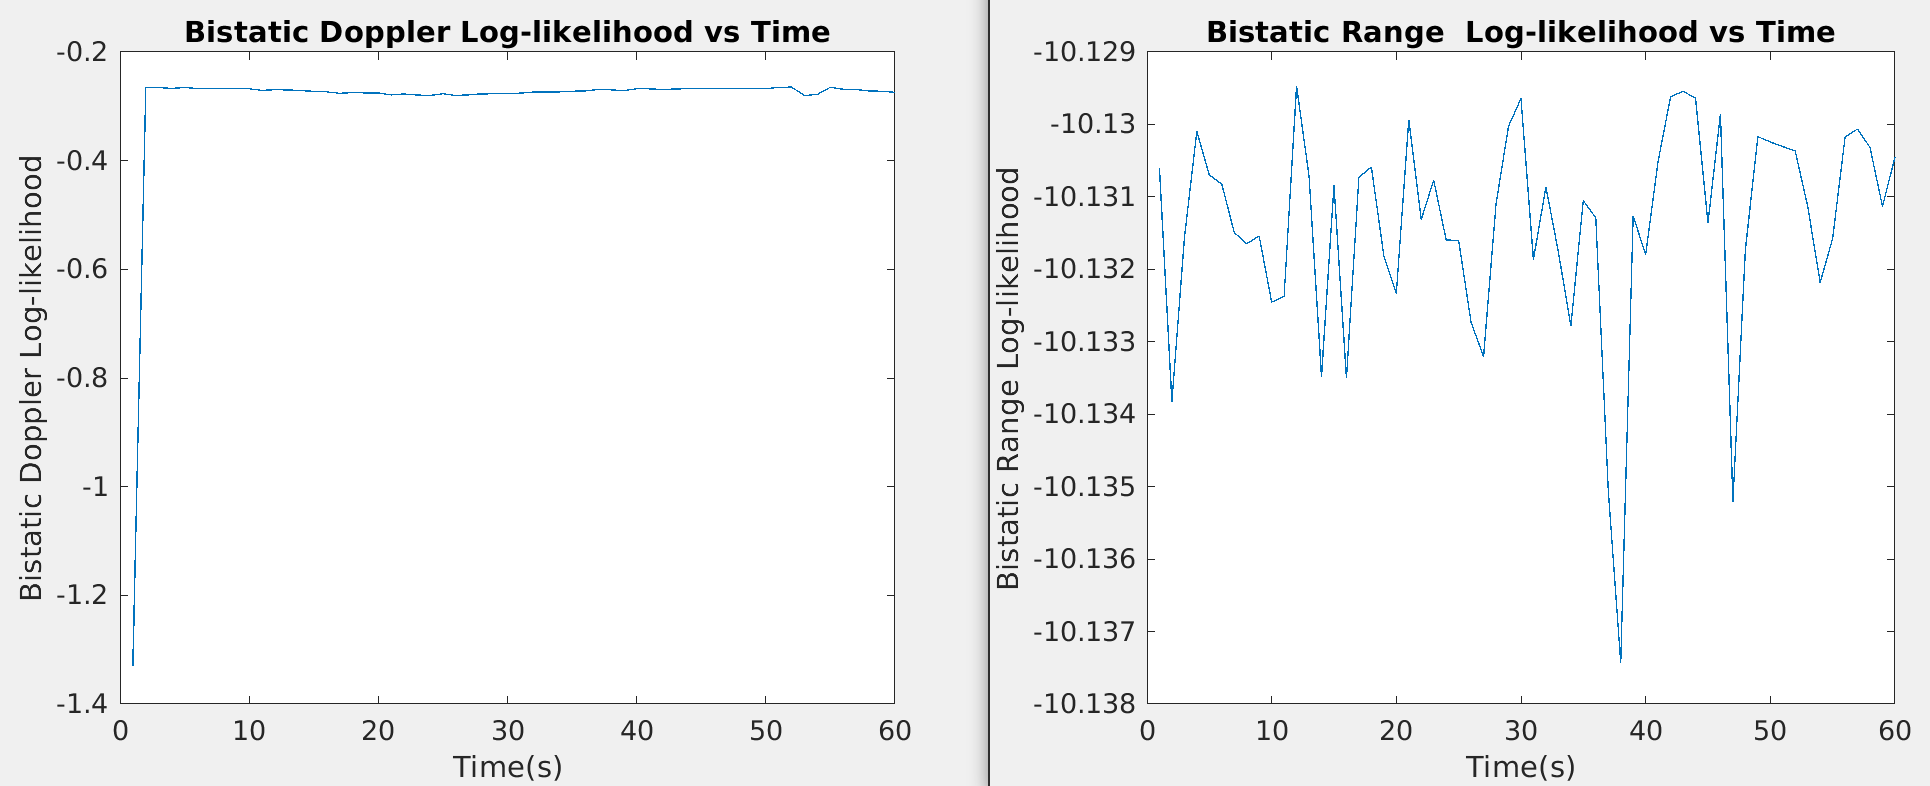
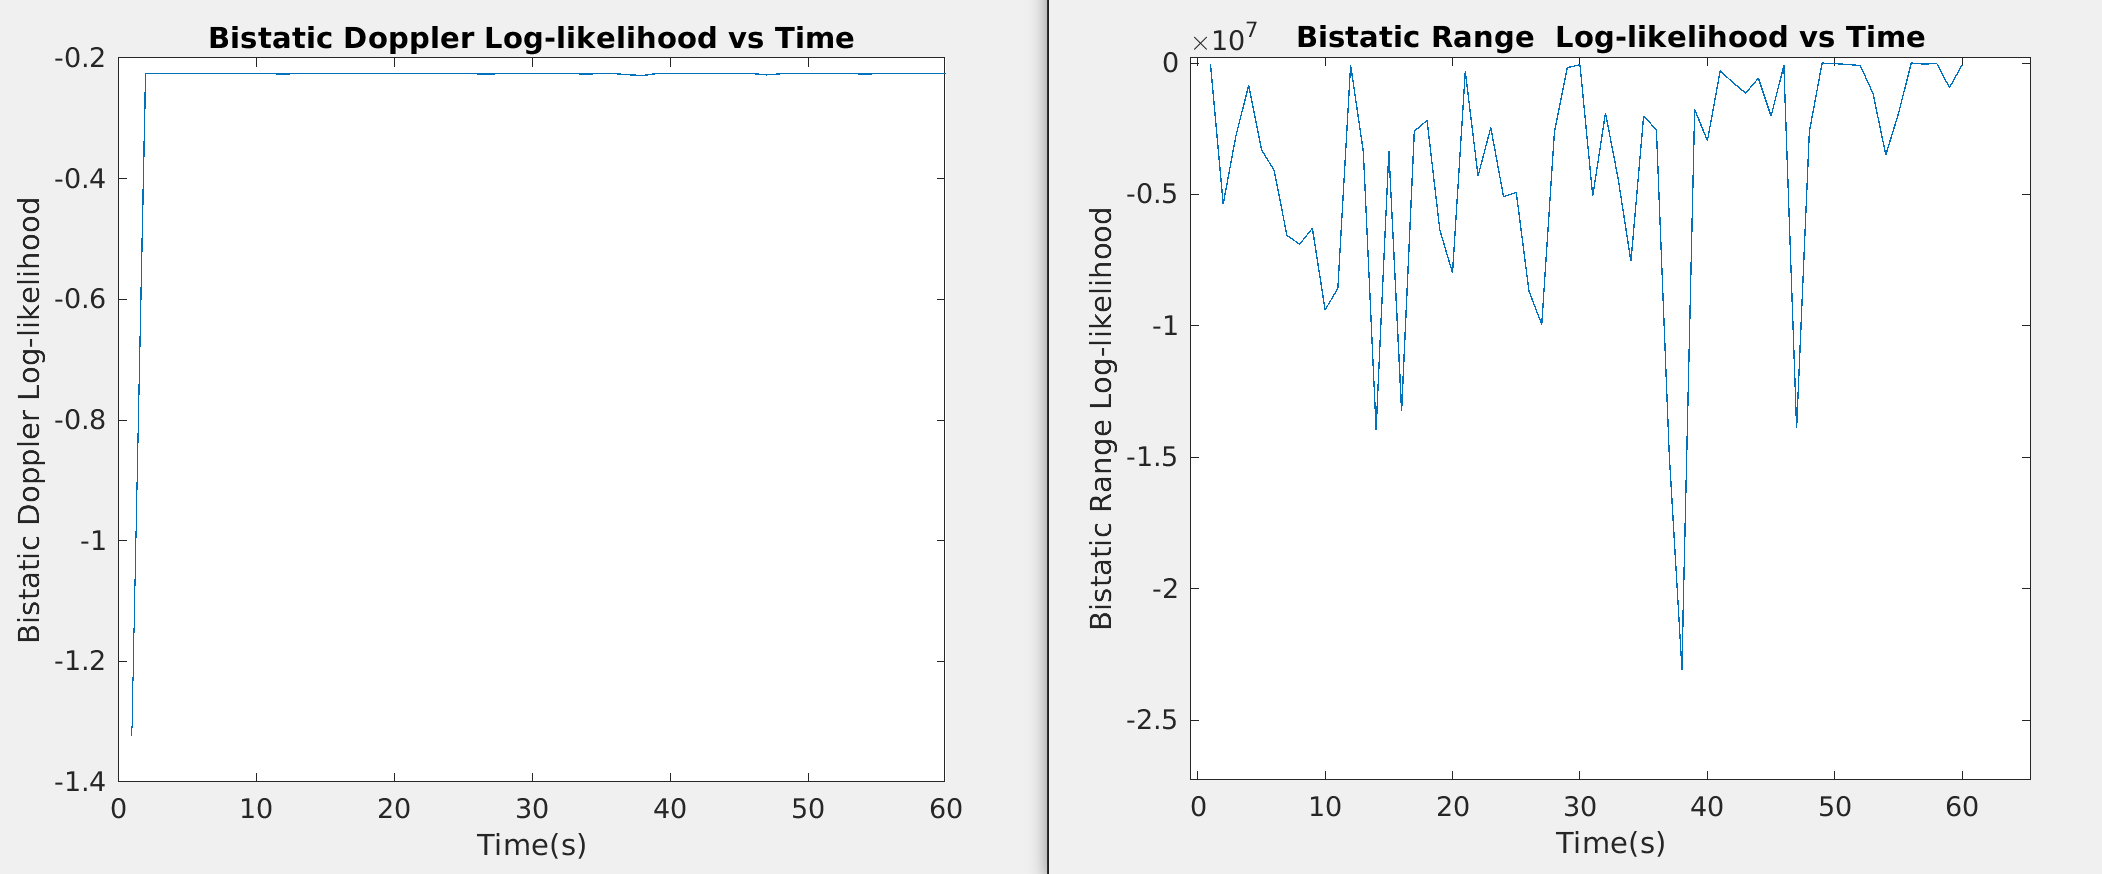
Kalman Filter

diff --git a/multiTargetTracking/track.m b/multiTargetTracking/track.m
@@ -29,7 +29,7 @@ classdef track
             switch filterType
                 case 1
                     disp("Initializing Kalman Filter");
-                    std_meas=[100,0.1];                      %Standard Deviation of the measurements in the x and y
+                    std_meas=[0.1,1e-3];                      %Standard Deviation of the measurements in the x and y
                     std_acc=0.5;                                 %Standard Deviation of the process noise
                     KF_object = kalmanFilter(dt,std_acc,std_meas(1),std_meas(2),[x_initial(1);x_initial(2);]);
                     obj.trackingFilterObject = KF_object;
